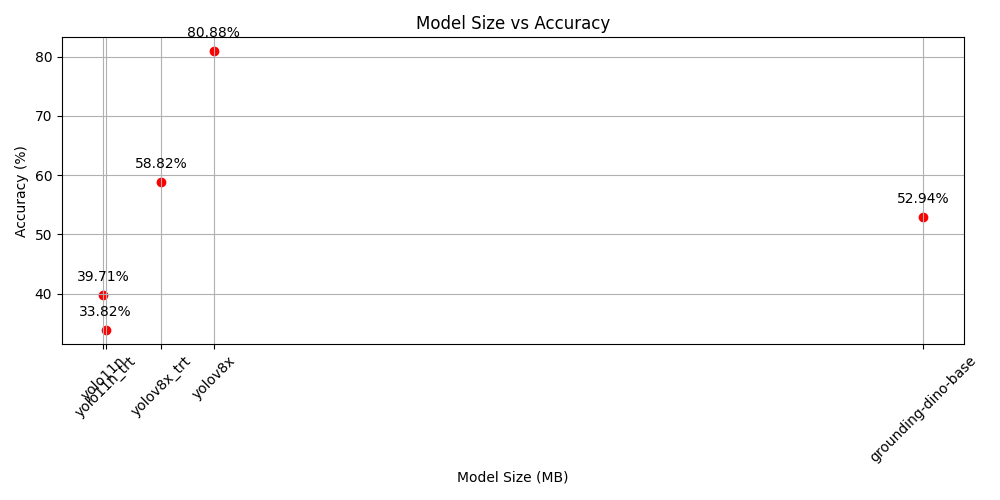
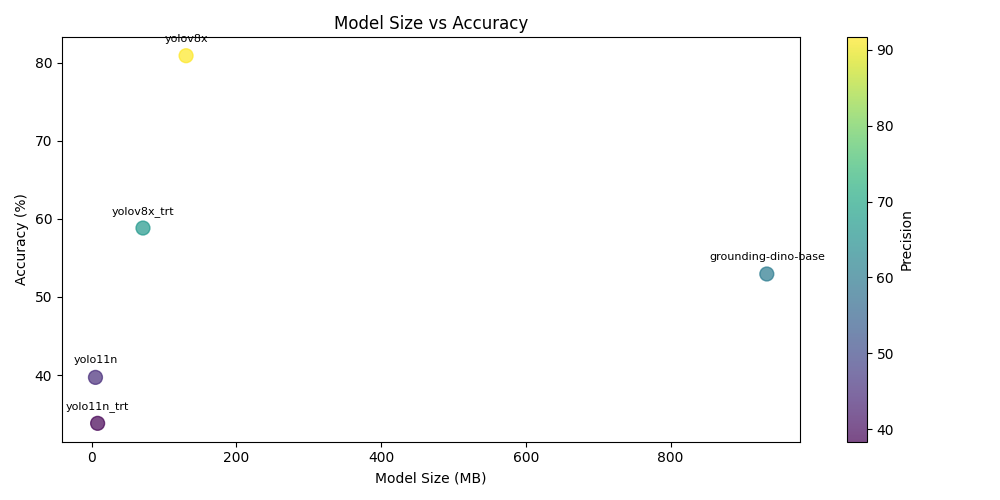
Enhance model size vs accuracy visualization with color-coded precision and improved annotations

diff --git a/result_validator.py b/result_validator.py
@@ -126,23 +126,23 @@ plt.legend()
 plt.tight_layout()
 plt.savefig("model_runtime.png")
 
-# Draw mode size vs accuracy point chart with poiunt label
+# Draw mode size vs accuracy point chart with point label in different color
 plt.figure(figsize=(10, 5))
 plt.scatter([result["model_file_size_MB"] for result in models_results.values()], 
-            [result["accuracy"] for result in models_results.values()], color='red')
-plt.xticks([result["model_file_size_MB"] for result in models_results.values()], 
-           list(models_results.keys()), rotation=45)
-for i, result in enumerate(models_results.values()):
-    plt.annotate(f"{result['accuracy']:.2f}%", 
-                 (result["model_file_size_MB"], result["accuracy"]), 
-                 textcoords="offset points", xytext=(0, 10), ha='center')
+            [result["accuracy"] for result in models_results.values()], 
+            c=[result["precision"] for result in models_results.values()], 
+            s=100, cmap='viridis', alpha=0.7)
+# Add text labels to each point
+for i, model in enumerate(models_results.keys()):
+    plt.annotate(model, (models_results[model]["model_file_size_MB"], models_results[model]["accuracy"]), 
+                 textcoords="offset points", xytext=(0, 10), ha='center', fontsize=8)
+plt.colorbar(label='Precision')
 plt.xlabel('Model Size (MB)')
 plt.ylabel('Accuracy (%)')
 plt.title('Model Size vs Accuracy')
-plt.grid()
 plt.tight_layout()
 plt.savefig("model_size_vs_accuracy.png")
-    
+
 # Save the results to a JSON file
 with open("models_results.json", "w") as f:
     json.dump(models_results, f, indent=4)
